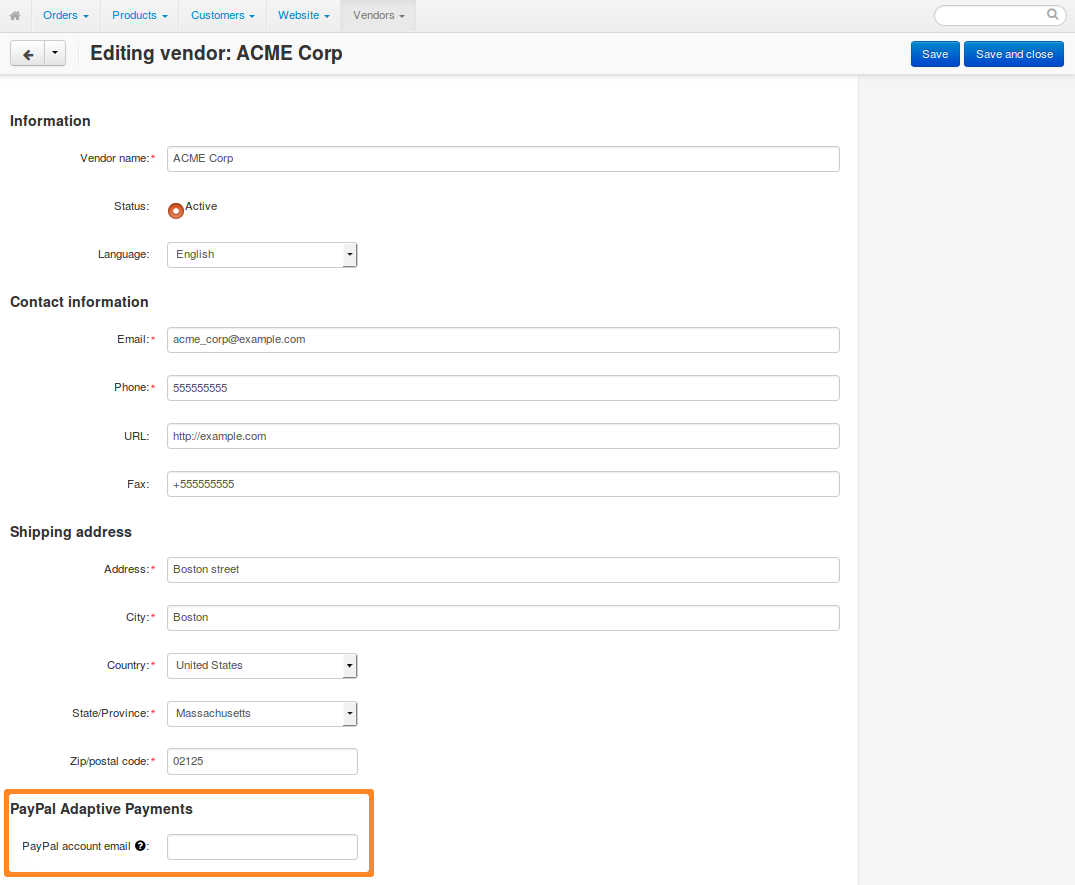
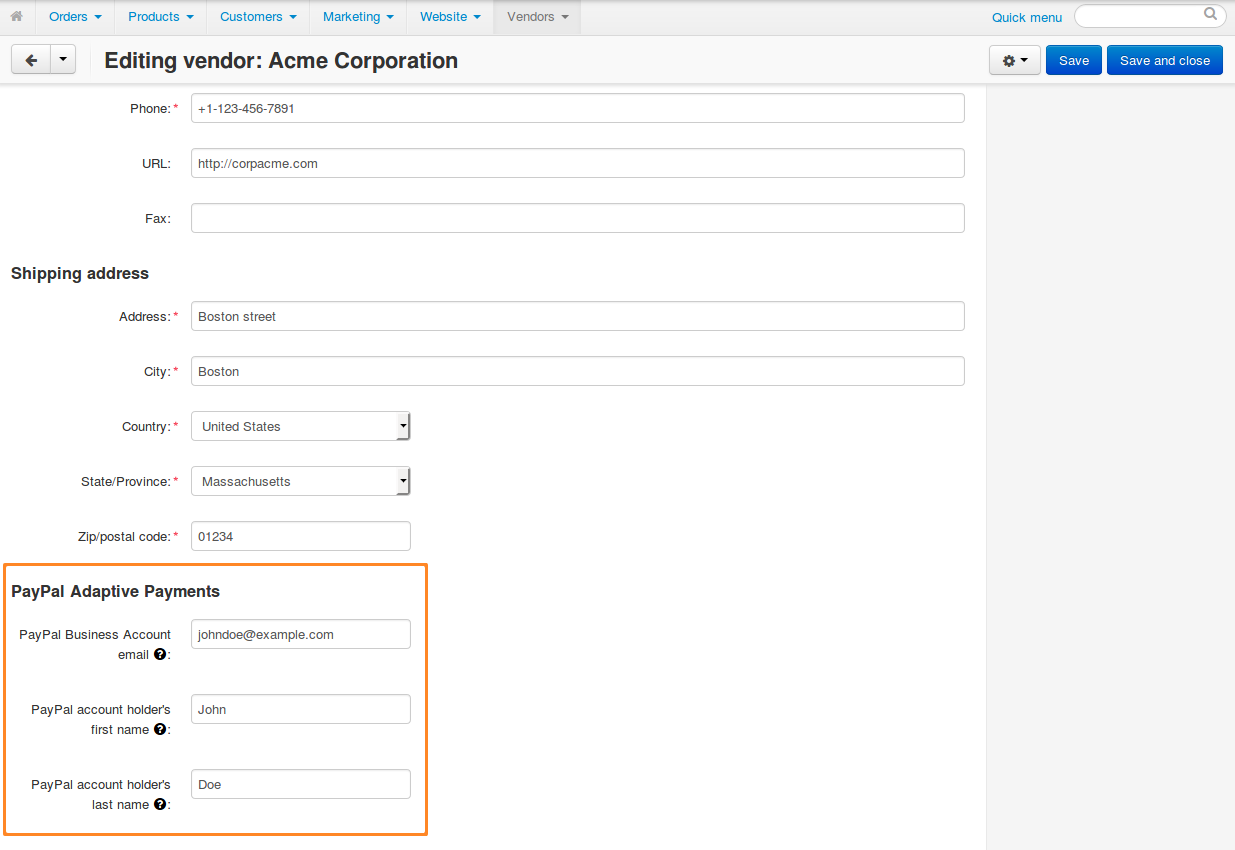
EN: User Guide: PayPal Adaptive Payments: Fields for vendors were updated.

diff --git a/en/user_guide/payment_methods/paypal_adaptive_payments.rst b/en/user_guide/payment_methods/paypal_adaptive_payments.rst
@@ -58,21 +58,21 @@ Step 1. Configure Payment Method
     :align: center
     :alt: The general settings of a PayPal Adaptive payment method.
 
-===============================================
-Step 2. Enter PayPal Account Emails for Vendors
-===============================================
+=============================================
+Step 2. Enter PayPal Account Data for Vendors
+=============================================
 
-Make sure that vendors specify the email addresses associated with their functioning PayPal accounts. To do that:
+Make sure that vendors specify the email addresses associated with their functioning PayPal Business accounts. To do that:
 
 2.1. Open Multi-Vendor Administration panel and go to **Vendors → Vendors**.
 
 2.2. Click the name of the desired vendor.
 
-2.3. The vendor editing window will open. Scroll down and fill in the **PayPal account email** field. Ask your vendors to fill in this field or do it yourself.
+2.3. The vendor editing window will open. Scroll down and fill in *all the fields* in the **PayPal Adaptive Payments** section. Your vendors can also enter that data themselves.
 
 .. image:: img/paypal_vendor_email.png
     :align: center
-    :alt: Vendors should specify emails of their PayPal accounts.
+    :alt: A vendor should specify the email of their PayPal Business Account, as well as the account holder's first name and last name.
 
 2.4. After the changes are saved, the add-on automatically requests confirmation from PayPal that the provided email addresses are valid for transactions. 
 
